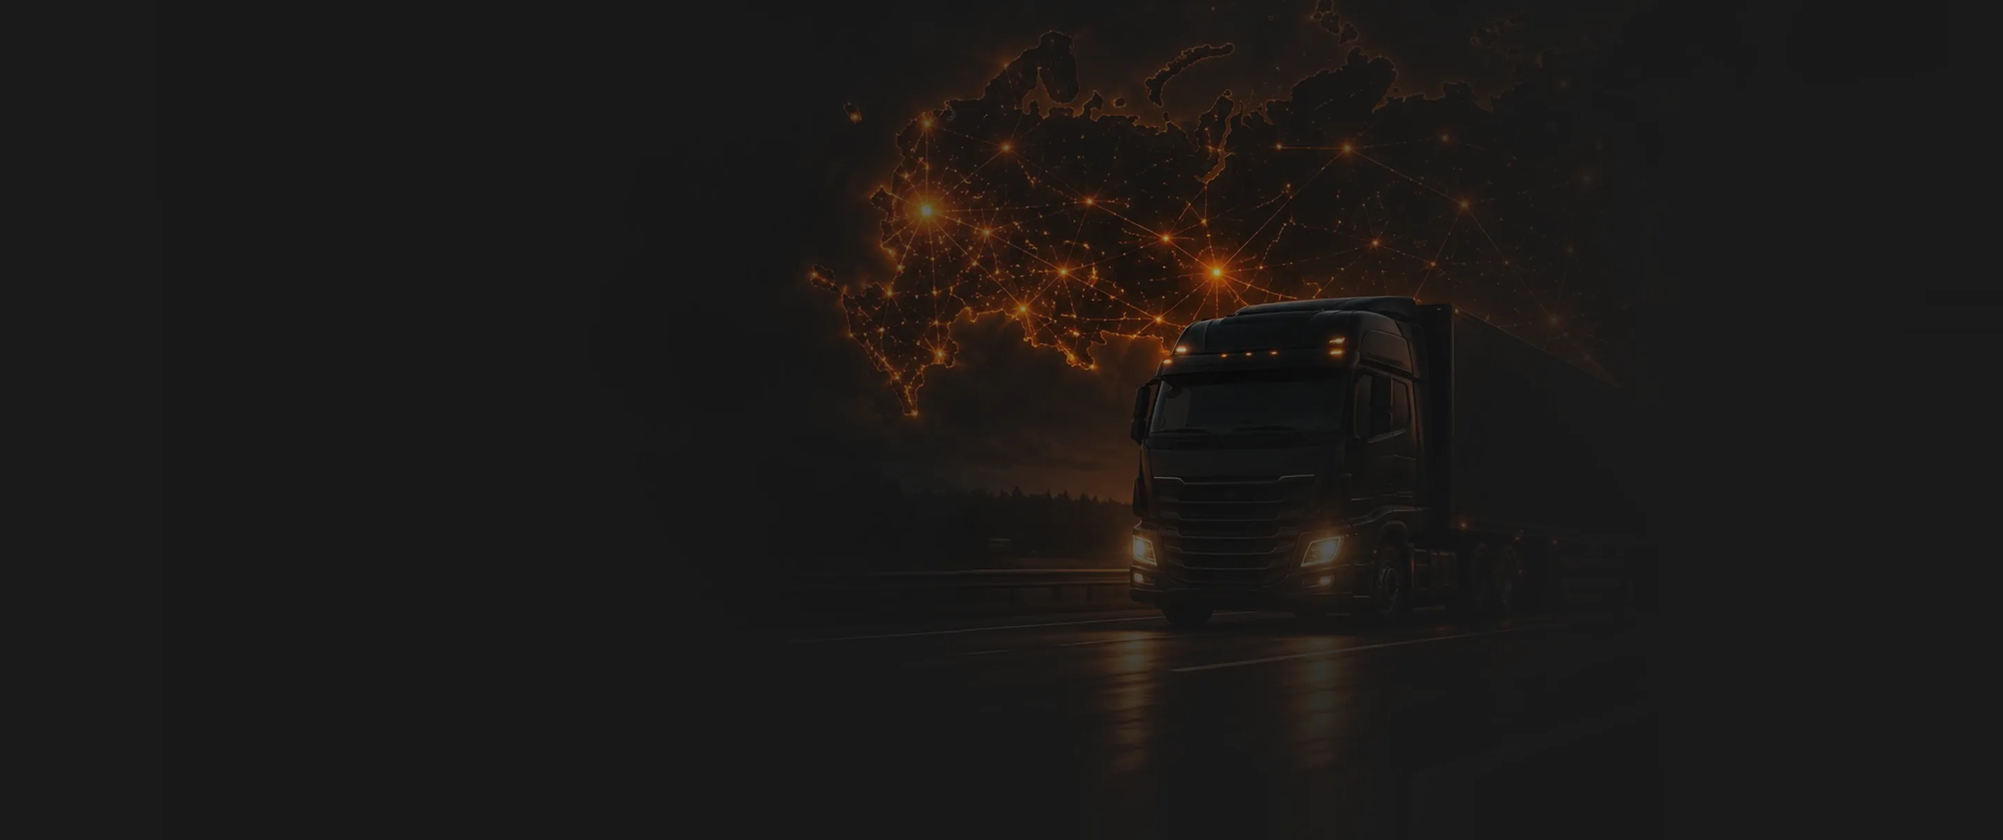
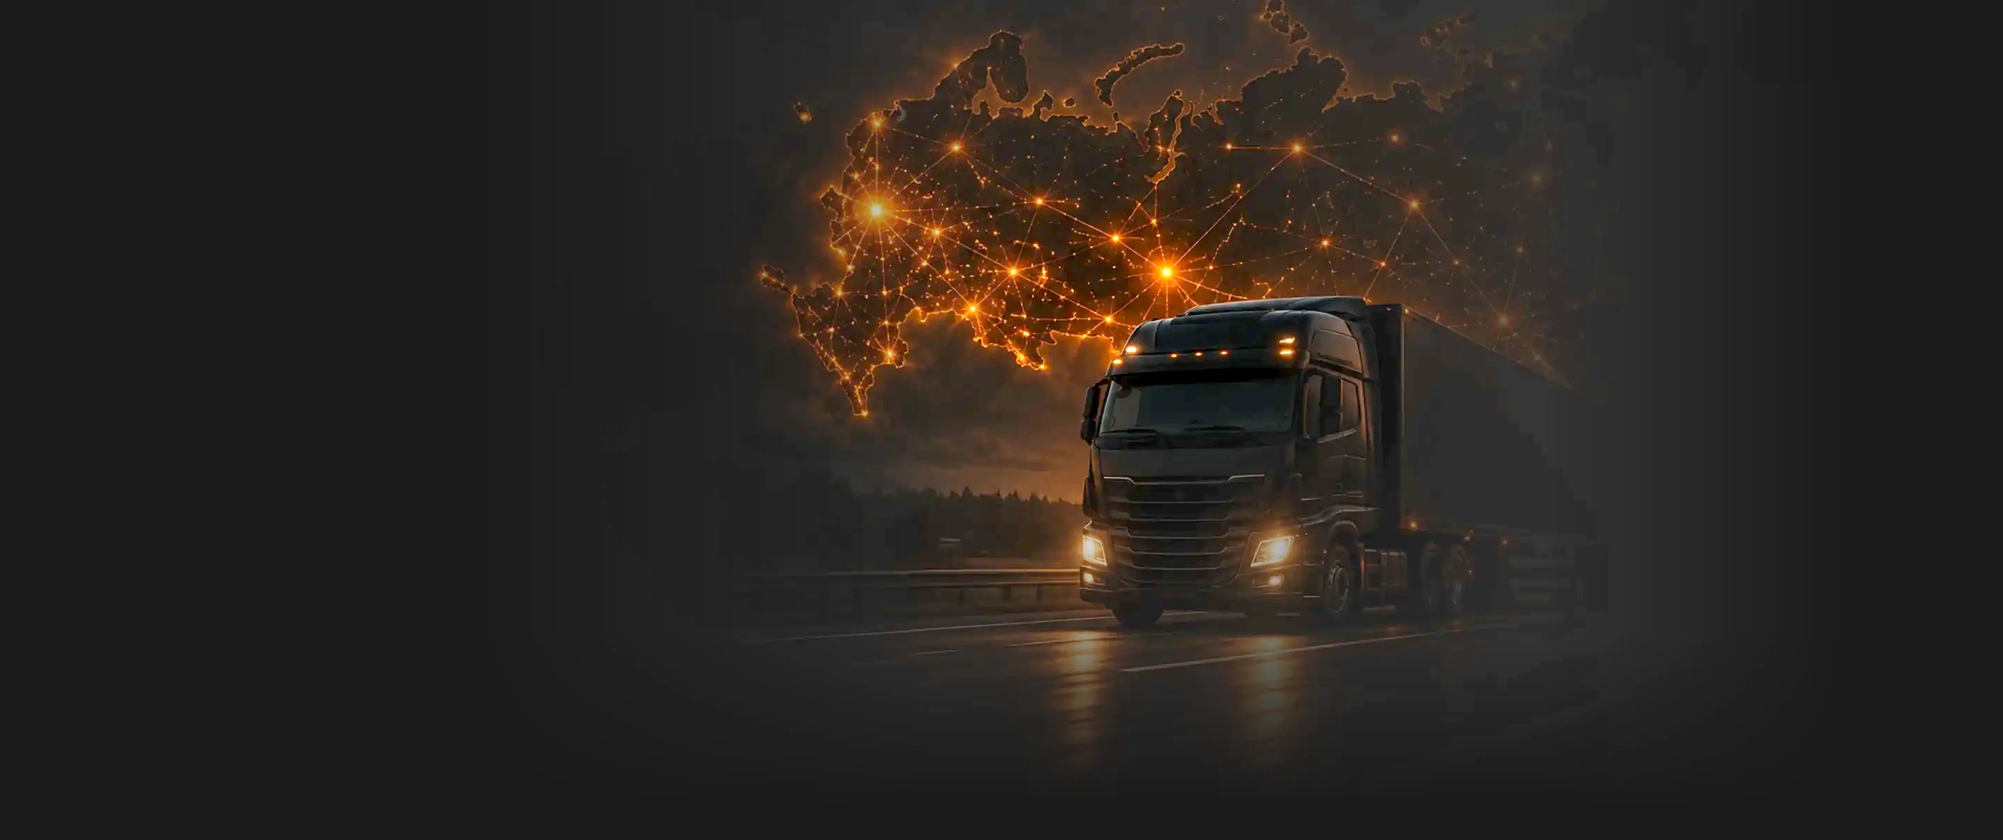
О компании, Доставка, Проектирование склада: заголовки, карточки цифр, hero доставки

Changed region(s): [[0.375, 0.0, 0.8125, 0.8882]]

diff --git a/dostavka.html b/dostavka.html
@@ -36,7 +36,7 @@
   <link rel="stylesheet" href="css/mining.css?v=7">
   <link rel="stylesheet" href="css/catalog.css?v=22">
   <link rel="stylesheet" href="css/services.css?v=98">
-  <link rel="stylesheet" href="css/unify.css?v=36">
+  <link rel="stylesheet" href="css/unify.css?v=38">
 </head>
 <body class="page-svc">
 
@@ -151,7 +151,7 @@
 </header>
 
 <main>
-  <section class="sv-hero sv-hero--slim" style="--hero:url('../img/svc/v-hero.webp?v=3')">
+  <section class="sv-hero sv-hero--slim sv-hero--v" style="--hero:url('../img/svc/v-hero.webp?v=5')">
     <div class="container sv-hero__inner">
       <div class="sv-hero__main">
         <nav class="crumbs" aria-label="Навигационная цепочка"><ol><li><a href="/">Главная</a></li><li><a href="/services/">Услуги</a></li><li aria-current="page">Доставка</li></ol></nav>
@@ -162,25 +162,16 @@
           <a href="#request" class="btn btn--outline btn--md">Получить консультацию <svg class="btn__icon" aria-hidden="true"><use href="#i-arrow"/></svg></a>
         </div>
       </div>
-      <ul class="sv-plaques">
-        <li><img class="ic ic--s" src="img/ic/s/svc-i-s-truck.svg" alt=""><span>По всей<br>территории РФ</span></li>
-        <li><img class="ic ic--s" src="img/ic/s/svc-i-clock.svg" alt=""><span>Точные<br>сроки</span></li>
-        <li><img class="ic ic--s" src="img/ic/s/svc-i-d-shield-check.svg" alt=""><span>Сохранность<br>груза</span></li>
-        <li><img class="ic ic--s" src="img/ic/s/svc-i-s-package.svg" alt=""><span>Выгодные<br>условия</span></li>
-      </ul>
+      <ul class="sv-plaques sv-plaques--d"><li><img class="ic ic--s" src="img/ic/s/svc-i-b-pin.svg" alt=""><span><b>Доставка по всей России</b><small>Доставка в любой регион России</small></span></li><li><img class="ic ic--s" src="img/ic/s/svc-i-s-truck.svg" alt=""><span><b>Надёжная логистика</b><small>Проверенные перевозчики и контроль сроков</small></span></li><li><img class="ic ic--s" src="img/ic/s/svc-i-d-shield-check.svg" alt=""><span><b>Сохранность груза</b><small>Надёжная упаковка и страхование при перевозке</small></span></li><li><img class="ic ic--s" src="img/ic/s/svc-i-calendar-check.svg" alt=""><span><b>Удобные условия</b><small>Согласуем сроки, объём и способ доставки под ваш проект</small></span></li></ul>
     </div>
   </section>
 
   <section class="section sv-intro">
     <div class="container sv-uni">
-      <h2 class="sv-intro__title">Доставка стеллажей, металлической мебели и складского оборудования по России</h2>
+      <h2 class="sv-intro__title">Доставка стеллажей, металлической мебели и складского оборудования <span class="accent">по России</span></h2>
       <span class="line" aria-hidden="true"></span>
       <div class="sv-intro__text sv-intro__text--3"><p>Организуем доставку стеллажных систем, металлических шкафов, производственной мебели и складской техники в регионы России. Способ перевозки подбираем с учетом габаритов, веса оборудования, объема заказа и расположения объекта.</p><div><p>Перед отправкой согласовываем состав поставки, условия транспортировки и сроки получения груза. Учитываем особенности перевозки крупногабаритных металлических конструкций и комплектующих.</p><p>Стоимость и продолжительность доставки рассчитываем индивидуально — с учетом региона, характеристик груза и выбранного способа перевозки. При комплексном оснащении объекта согласовываем порядок и график поставки оборудования.</p></div></div>
-      <ul class="sv-tiles-uni">
-        <li class="sv-tile"><img class="ic ic--b" src="img/ic/b/svc-i-s-truck.svg" alt=""><span><b>Надёжные</b><small>перевозчики</small></span></li>
-        <li class="sv-tile"><img class="ic ic--b" src="img/ic/b/svc-i-s-package.svg" alt=""><span><b>Сборные</b><small>и прямые поставки</small></span></li>
-        <li class="sv-tile"><img class="ic ic--b" src="img/ic/b/svc-i-s-handshake.svg" alt=""><span><b>Гибкие</b><small>условия</small></span></li>
-      </ul>
+      <ul class="sv-stats sv-stats--t"><li class="sv-stat"><img class="ic ic--xl" src="img/ic/xl/svc-i-s-truck.svg" alt=""><span class="sv-stat__body"><span class="sv-stat__top"><b>Надёжные перевозчики</b></span><em>Согласованные сроки и контроль доставки.</em></span></li><li class="sv-stat"><img class="ic ic--xl" src="img/ic/xl/svc-i-s-package.svg" alt=""><span class="sv-stat__body"><span class="sv-stat__top"><b>Сборные и прямые поставки</b></span><em>Комплектация заказов под задачи проекта.</em></span></li><li class="sv-stat"><img class="ic ic--xl" src="img/ic/xl/svc-i-s-handshake.svg" alt=""><span class="sv-stat__body"><span class="sv-stat__top"><b>Гибкие условия</b></span><em>Подбор решений с учётом бюджета и требований.</em></span></li><li class="sv-stat"><img class="ic ic--xl" src="img/ic/xl/racks-icons-s-f-wrench.svg" alt=""><span class="sv-stat__body"><span class="sv-stat__top"><b>Монтаж и установка</b></span><em>Сборка и установка оборудования на объекте.</em></span></li></ul>
     </div>
   </section>
 

diff --git a/proektirovanie-sklada.html b/proektirovanie-sklada.html
@@ -36,7 +36,7 @@
   <link rel="stylesheet" href="css/mining.css?v=7">
   <link rel="stylesheet" href="css/catalog.css?v=22">
   <link rel="stylesheet" href="css/services.css?v=98">
-  <link rel="stylesheet" href="css/unify.css?v=36">
+  <link rel="stylesheet" href="css/unify.css?v=38">
 </head>
 <body class="page-svc">
 
@@ -163,7 +163,7 @@
         </div>
       </div>
       <ul class="sv-plaques">
-        <li><img class="ic ic--s" src="img/ic/s/svc-i-layers.svg" alt=""><span>Оптимальная<br>планировка<br>склада до 70%</span></li>
+        <li><img class="ic ic--s" src="img/ic/s/svc-i-layers.svg" alt=""><span>Оптимальная<br>планировка<br>склада</span></li>
         <li><img class="ic ic--s" src="img/ic/s/svc-i-shelf.svg" alt=""><span>Подбор стеллажей<br>и металлической<br>мебели</span></li>
         <li><img class="ic ic--s" src="img/ic/s/svc-i-clipboard-check.svg" alt=""><span>Соответствие ГОСТ<br>и нормам безопасности</span></li>
         <li><img class="ic ic--s" src="img/ic/s/svc-i-box.svg" alt=""><span>3D-моделирование<br>и визуализация</span></li>
@@ -174,14 +174,10 @@
 
   <section class="section sv-intro">
     <div class="container sv-uni">
-      <h2 class="sv-intro__title">Проектирование складов и систем хранения</h2>
+      <h2 class="sv-intro__title">Проектирование <span class="accent">складов и систем хранения</span></h2>
       <span class="line" aria-hidden="true"></span>
       <div class="sv-intro__text"><p>Проектирование склада начинается с анализа помещения, характеристик грузов и особенностей грузооборота. Разрабатываем планировку с учетом высоты здания, расположения колонн, проходов и используемой техники. Подбираем стеллажные системы и оборудование для рационального использования площади.</p><p>В состав проекта могут входить схема размещения оборудования, 3D-визуализация, расчеты допустимых нагрузок и спецификация комплектующих. Подготавливаем документацию для согласования, комплектации и последующего монтажа с учетом технических требований объекта.</p></div>
-      <ul class="sv-tiles-uni">
-        <li class="sv-tile"><img class="ic ic--b" src="img/ic/b/svc-i-b-briefcase.svg" alt=""><span><b>500+</b><small>разработанных<br>проектов</small></span></li>
-        <li class="sv-tile"><img class="ic ic--b" src="img/ic/b/svc-i-clock.svg" alt=""><span><b>98%</b><small>проектов сданы в срок</small></span></li>
-        <li class="sv-tile"><img class="ic ic--b" src="img/ic/b/svc-i-s-handshake.svg" alt=""><span><b>100%</b><small>ответственность за результат</small></span></li>
-      </ul>
+      <ul class="sv-stats"><li class="sv-stat"><img class="ic ic--xl" src="img/ic/xl/svc-i-b-briefcase.svg" alt=""><span class="sv-stat__body"><span class="sv-stat__top"><b>500+</b><small>разработанных проектов</small></span><em>Опыт проектирования складов различной сложности.</em></span></li><li class="sv-stat"><img class="ic ic--xl" src="img/ic/xl/svc-i-clock.svg" alt=""><span class="sv-stat__body"><span class="sv-stat__top"><b>98%</b><small>проектов сданы в срок</small></span><em>Соблюдаем согласованные сроки реализации.</em></span></li><li class="sv-stat"><img class="ic ic--xl" src="img/ic/xl/svc-i-d-shield-check.svg" alt=""><span class="sv-stat__body"><span class="sv-stat__top"><b>100%</b><small>ответственность за результат</small></span><em>Решения, соответствующие техническим требованиям.</em></span></li><li class="sv-stat"><img class="ic ic--xl" src="img/ic/xl/svc-i-b-ruler.svg" alt=""><span class="sv-stat__body"><span class="sv-stat__top"><b>Расчёт нагрузок</b></span><em>Определение допустимых нагрузок на ярусы и секции с учётом характеристик грузов.</em></span></li></ul>
     </div>
   </section>
 

diff --git a/o-kompanii.html b/o-kompanii.html
@@ -36,7 +36,7 @@
   <link rel="stylesheet" href="css/mining.css?v=7">
   <link rel="stylesheet" href="css/catalog.css?v=22">
   <link rel="stylesheet" href="css/services.css?v=98">
-  <link rel="stylesheet" href="css/unify.css?v=36">
+  <link rel="stylesheet" href="css/unify.css?v=38">
 </head>
 <body class="page-svc">
 
@@ -174,14 +174,10 @@
 
   <section class="section sv-intro">
     <div class="container sv-uni">
-      <h2 class="sv-intro__title">Диаском — комплексное оснащение складов и предприятий</h2>
+      <h2 class="sv-intro__title">Комплексное оснащение <span class="accent">складов</span> и <span class="accent">предприятий</span></h2>
       <span class="line" aria-hidden="true"></span>
       <div class="sv-intro__text"><p>Мы специализируемся на комплексном оснащении складских, производственных и административных объектов. Подбираем и поставляем паллетные, полочные и мезонинные стеллажи, металлические шкафы, производственную мебель, сейфы и складскую технику. Ассортимент и конфигурацию оборудования определяем с учетом назначения помещения, характеристик грузов и условий эксплуатации.</p><p>Сопровождаем проекты на всех основных этапах: от разработки технического решения и планировки помещений до комплектации, доставки, сборки и монтажа оборудования. Помогаем подготовить техническую документацию для закупок по 44-ФЗ и 223-ФЗ. Работаем с объектами различного назначения и организуем поставки по России.</p></div>
-      <ul class="sv-tiles-uni">
-        <li class="sv-tile"><img class="ic ic--b" src="img/ic/b/svc-i-b-briefcase.svg" alt=""><span><b>1500+</b><small>реализованных<br>проектов</small></span></li>
-        <li class="sv-tile"><img class="ic ic--b" src="img/ic/b/svc-i-clock.svg" alt=""><span><b>98%</b><small>объектов сданы в срок</small></span></li>
-        <li class="sv-tile"><img class="ic ic--b" src="img/ic/b/svc-i-s-handshake.svg" alt=""><span><b>100%</b><small>ответственность<br>за результат</small></span></li>
-      </ul>
+      <ul class="sv-stats"><li class="sv-stat"><img class="ic ic--xl" src="img/ic/xl/svc-i-b-briefcase.svg" alt=""><span class="sv-stat__body"><span class="sv-stat__top"><b>1500+</b><small>реализованных проектов</small></span><em>Опыт оснащения объектов различного масштаба.</em></span></li><li class="sv-stat"><img class="ic ic--xl" src="img/ic/xl/svc-i-clock.svg" alt=""><span class="sv-stat__body"><span class="sv-stat__top"><b>98%</b><small>соблюдение сроков</small></span><em>Чёткое планирование и контроль поставок.</em></span></li><li class="sv-stat"><img class="ic ic--xl" src="img/ic/xl/svc-i-d-shield-check.svg" alt=""><span class="sv-stat__body"><span class="sv-stat__top"><b>100%</b><small>соответствие требованиям</small></span><em>Подбор решений по нормам и задачам объекта.</em></span></li><li class="sv-stat"><img class="ic ic--xl" src="img/ic/xl/svc-i-s-truck.svg" alt=""><span class="sv-stat__body"><span class="sv-stat__top"><b>По всей России</b><small>поставка и сервис</small></span><em>Доставка, сборка и поддержка в регионах.</em></span></li></ul>
     </div>
   </section>
 

diff --git a/css/unify.css b/css/unify.css
@@ -181,3 +181,11 @@ body .sv-bigl{display:grid;gap:12px;margin-top:22px}
 body .sv-bigl li{display:flex;align-items:center;gap:20px;min-height:84px;padding:14px 22px;background:var(--c-bg);border:1px solid var(--c-border);border-radius:8px;font-size:18px;font-weight:600;line-height:1.2;color:#fff}
 @media (max-width:1180px){body .sv-stats{grid-column:1;grid-row:auto;margin-top:28px}}
 @media (max-width:560px){body .sv-stats{grid-template-columns:minmax(0,1fr)}body .sv-bigl li{font-size:16px;min-height:72px;padding:12px 16px;gap:16px}}
+
+body .sv-stats--t b{font-size:20px;line-height:1.15}
+body .sv-stat b{overflow-wrap:anywhere}
+body .sv-plaques--d li{align-items:center}
+body .sv-plaques--d span{display:grid;gap:3px}
+body .sv-plaques--d b{font-size:14px;font-weight:600;line-height:1.2;color:#fff}
+body .sv-plaques--d small{font-size:11.5px;font-weight:400;line-height:1.3;color:#d0d0d0}
+@media (max-width:760px){body .sv-hero--v::before{filter:brightness(.55)}}

diff --git a/catalog-kartotechnye.html b/catalog-kartotechnye.html
@@ -34,7 +34,7 @@
   <link href="https://fonts.googleapis.com/css2?family=Golos+Text:wght@400;500;600;700&display=swap" rel="stylesheet">
   <link rel="stylesheet" href="css/style.css?v=79">
   <link rel="stylesheet" href="css/catalog.css?v=22">
-  <link rel="stylesheet" href="css/unify.css?v=36">
+  <link rel="stylesheet" href="css/unify.css?v=38">
 </head>
 <body class="page-catalog">
 

diff --git a/catalog.html b/catalog.html
@@ -34,7 +34,7 @@
   <link href="https://fonts.googleapis.com/css2?family=Golos+Text:wght@400;500;600;700&display=swap" rel="stylesheet">
   <link rel="stylesheet" href="css/style.css?v=79">
   <link rel="stylesheet" href="css/catalog.css?v=22">
-  <link rel="stylesheet" href="css/unify.css?v=36">
+  <link rel="stylesheet" href="css/unify.css?v=38">
 </head>
 <body class="page-catalog">
 

diff --git a/mining.html b/mining.html
@@ -28,7 +28,7 @@
   <link href="https://fonts.googleapis.com/css2?family=Golos+Text:wght@400;500;600;700&display=swap" rel="stylesheet">
   <link rel="stylesheet" href="css/style.css?v=79">
   <link rel="stylesheet" href="css/mining.css?v=7">
-  <link rel="stylesheet" href="css/unify.css?v=36">
+  <link rel="stylesheet" href="css/unify.css?v=38">
 </head>
 <body class="page-mining">
 

diff --git a/index.html b/index.html
@@ -33,7 +33,7 @@
   <link rel="preconnect" href="https://fonts.gstatic.com" crossorigin>
   <link href="https://fonts.googleapis.com/css2?family=Golos+Text:wght@400;500;600;700&display=swap" rel="stylesheet">
   <link rel="stylesheet" href="css/style.css?v=79">
-  <link rel="stylesheet" href="css/unify.css?v=36">
+  <link rel="stylesheet" href="css/unify.css?v=38">
 </head>
 <body>
 

diff --git a/rack3d.html b/rack3d.html
@@ -14,7 +14,7 @@
   <link href="https://fonts.googleapis.com/css2?family=Golos+Text:wght@400;500;600;700&display=swap" rel="stylesheet">
   <link rel="stylesheet" href="css/style.css?v=79">
   <link rel="stylesheet" href="css/rack3d.css?v=3">
-  <link rel="stylesheet" href="css/unify.css?v=36">
+  <link rel="stylesheet" href="css/unify.css?v=38">
 </head>
 <body>
 

diff --git a/mobilnye-stellazhi.html b/mobilnye-stellazhi.html
@@ -38,7 +38,7 @@
   <link rel="stylesheet" href="css/racks.css?v=53">
   <link rel="stylesheet" href="css/deep.css?v=23">
   <link rel="stylesheet" href="css/mobile.css?v=32">
-  <link rel="stylesheet" href="css/unify.css?v=36">
+  <link rel="stylesheet" href="css/unify.css?v=38">
 </head>
 <body class="page-racks page-racks--fold page-deep page-mobile">
 

diff --git a/srednegruzovye-stellazhi.html b/srednegruzovye-stellazhi.html
@@ -36,7 +36,7 @@
   <link rel="stylesheet" href="css/mining.css?v=7">
   <link rel="stylesheet" href="css/catalog.css?v=22">
   <link rel="stylesheet" href="css/racks.css?v=53">
-  <link rel="stylesheet" href="css/unify.css?v=36">
+  <link rel="stylesheet" href="css/unify.css?v=38">
 </head>
 <body class="page-racks page-racks--fold page-racks--s">
 

diff --git a/glubinnye-stellazhi.html b/glubinnye-stellazhi.html
@@ -37,7 +37,7 @@
   <link rel="stylesheet" href="css/catalog.css?v=22">
   <link rel="stylesheet" href="css/racks.css?v=53">
   <link rel="stylesheet" href="css/deep.css?v=23">
-  <link rel="stylesheet" href="css/unify.css?v=36">
+  <link rel="stylesheet" href="css/unify.css?v=38">
 </head>
 <body class="page-racks page-racks--fold page-deep">
 
